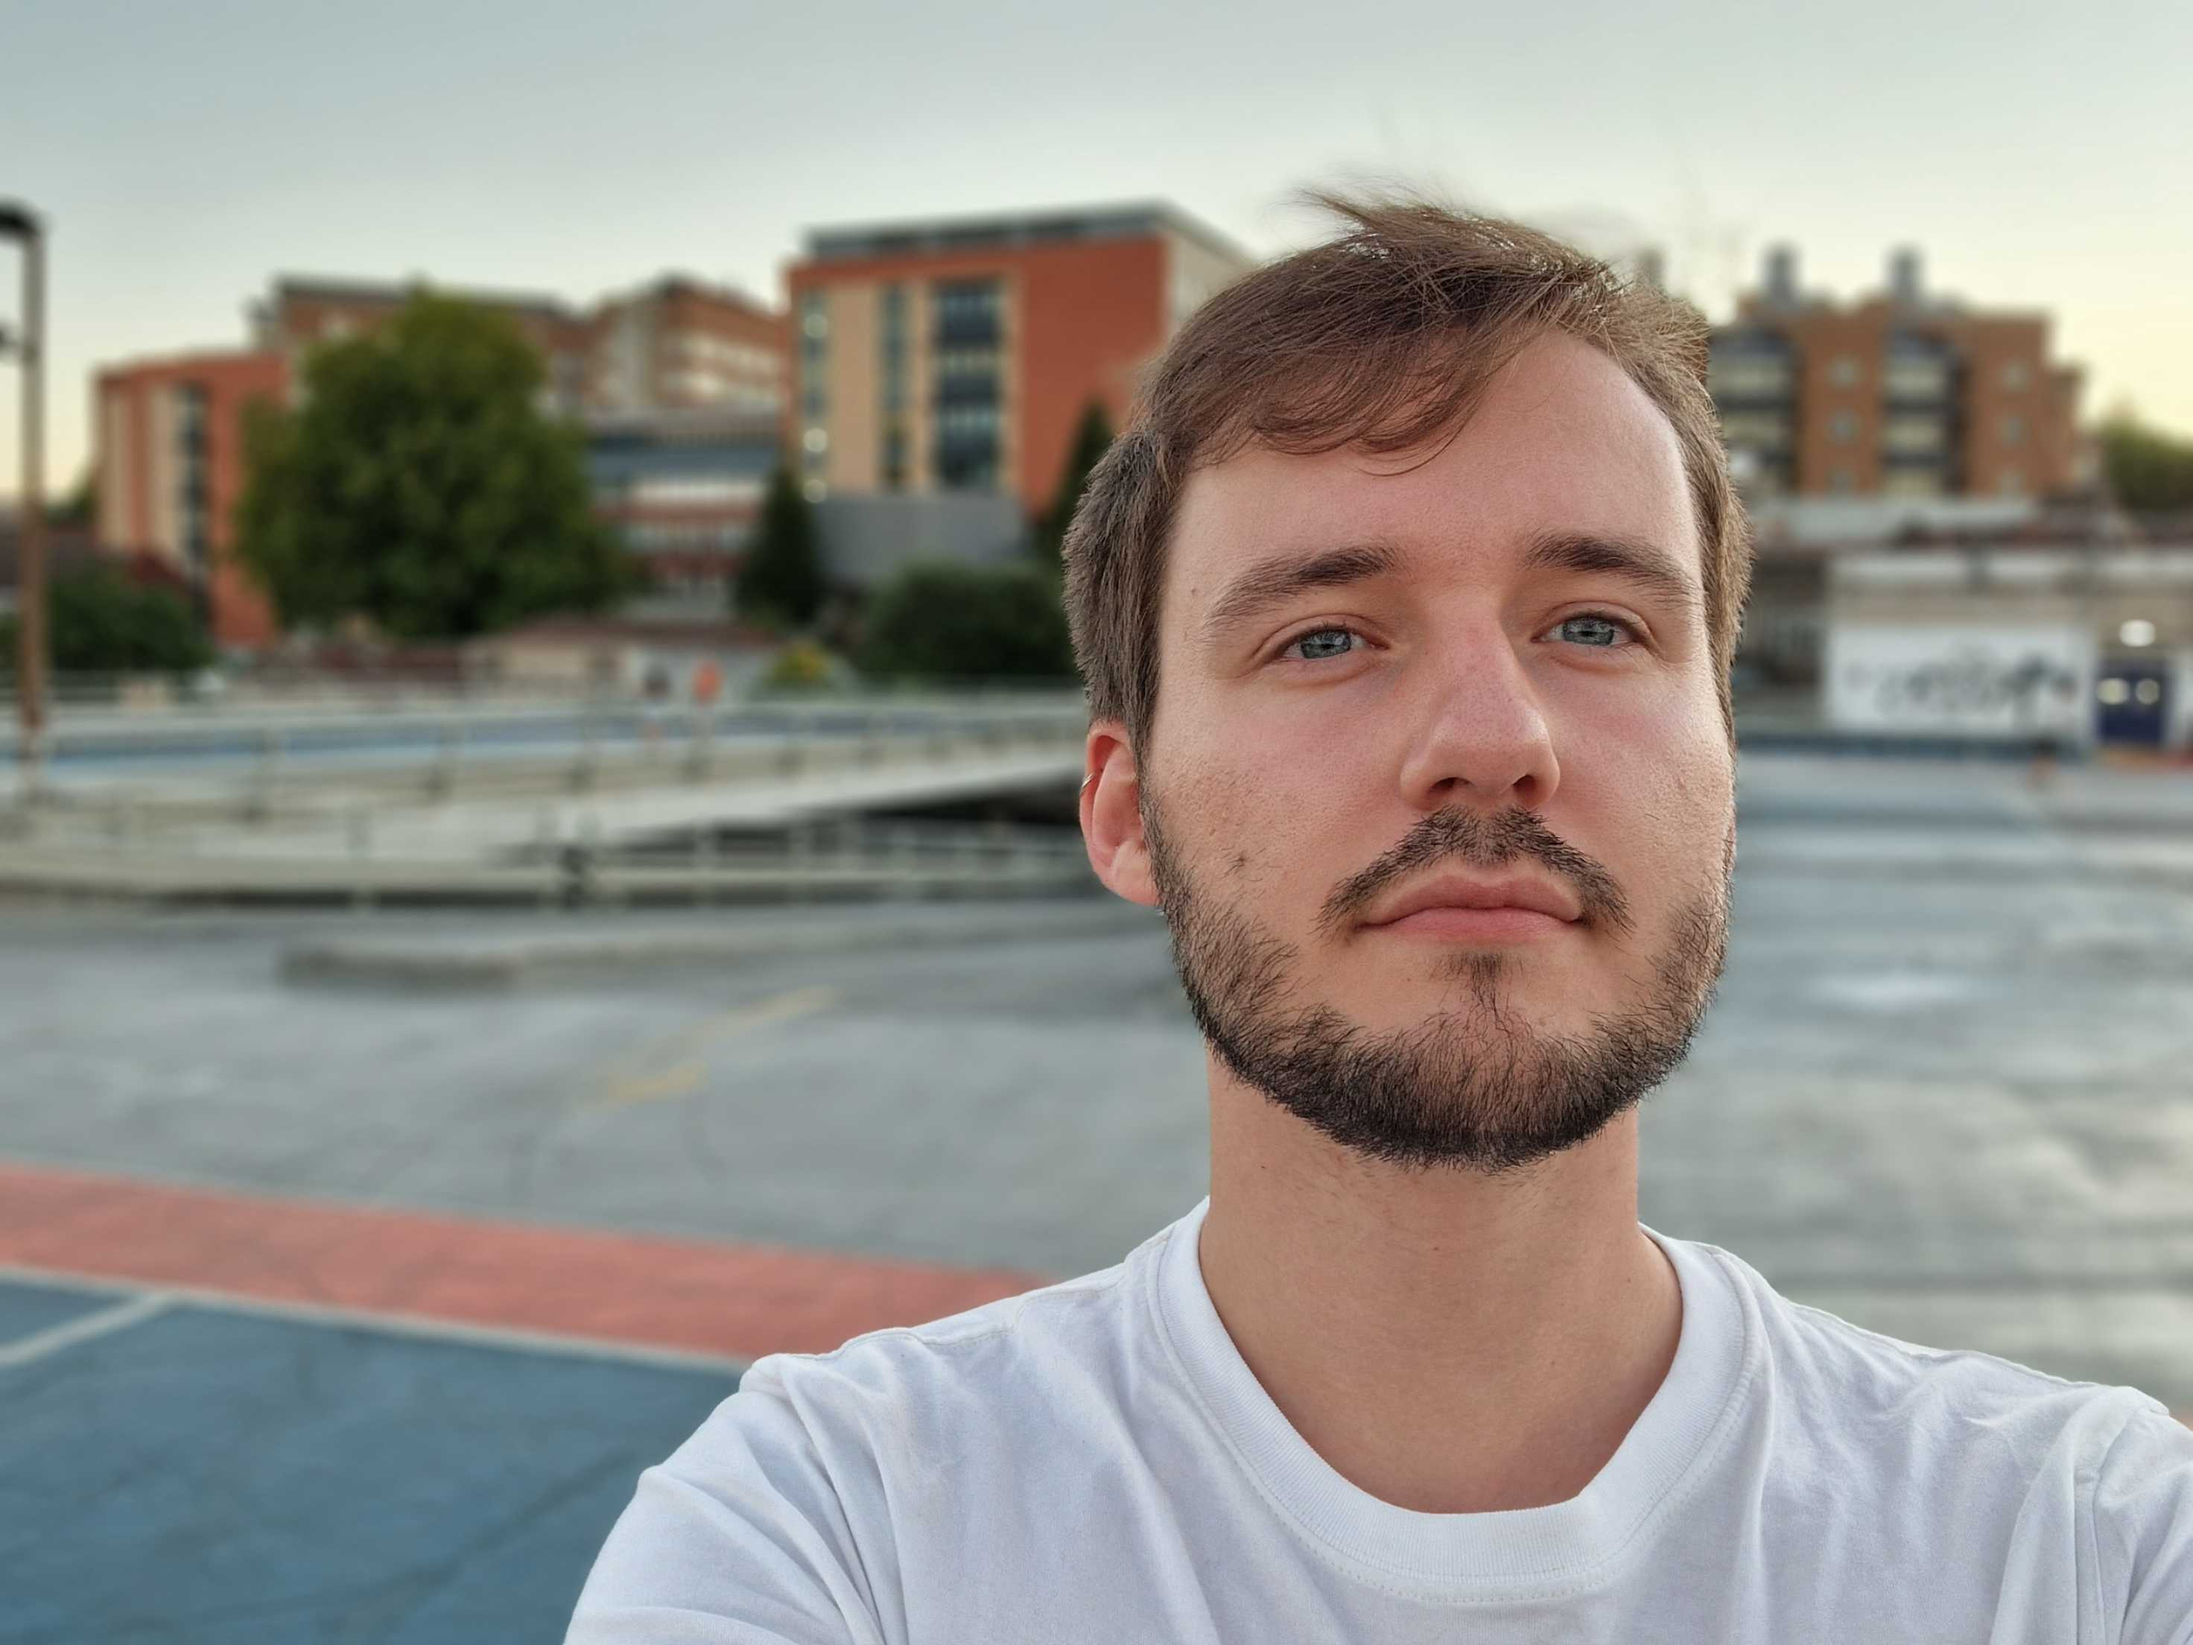
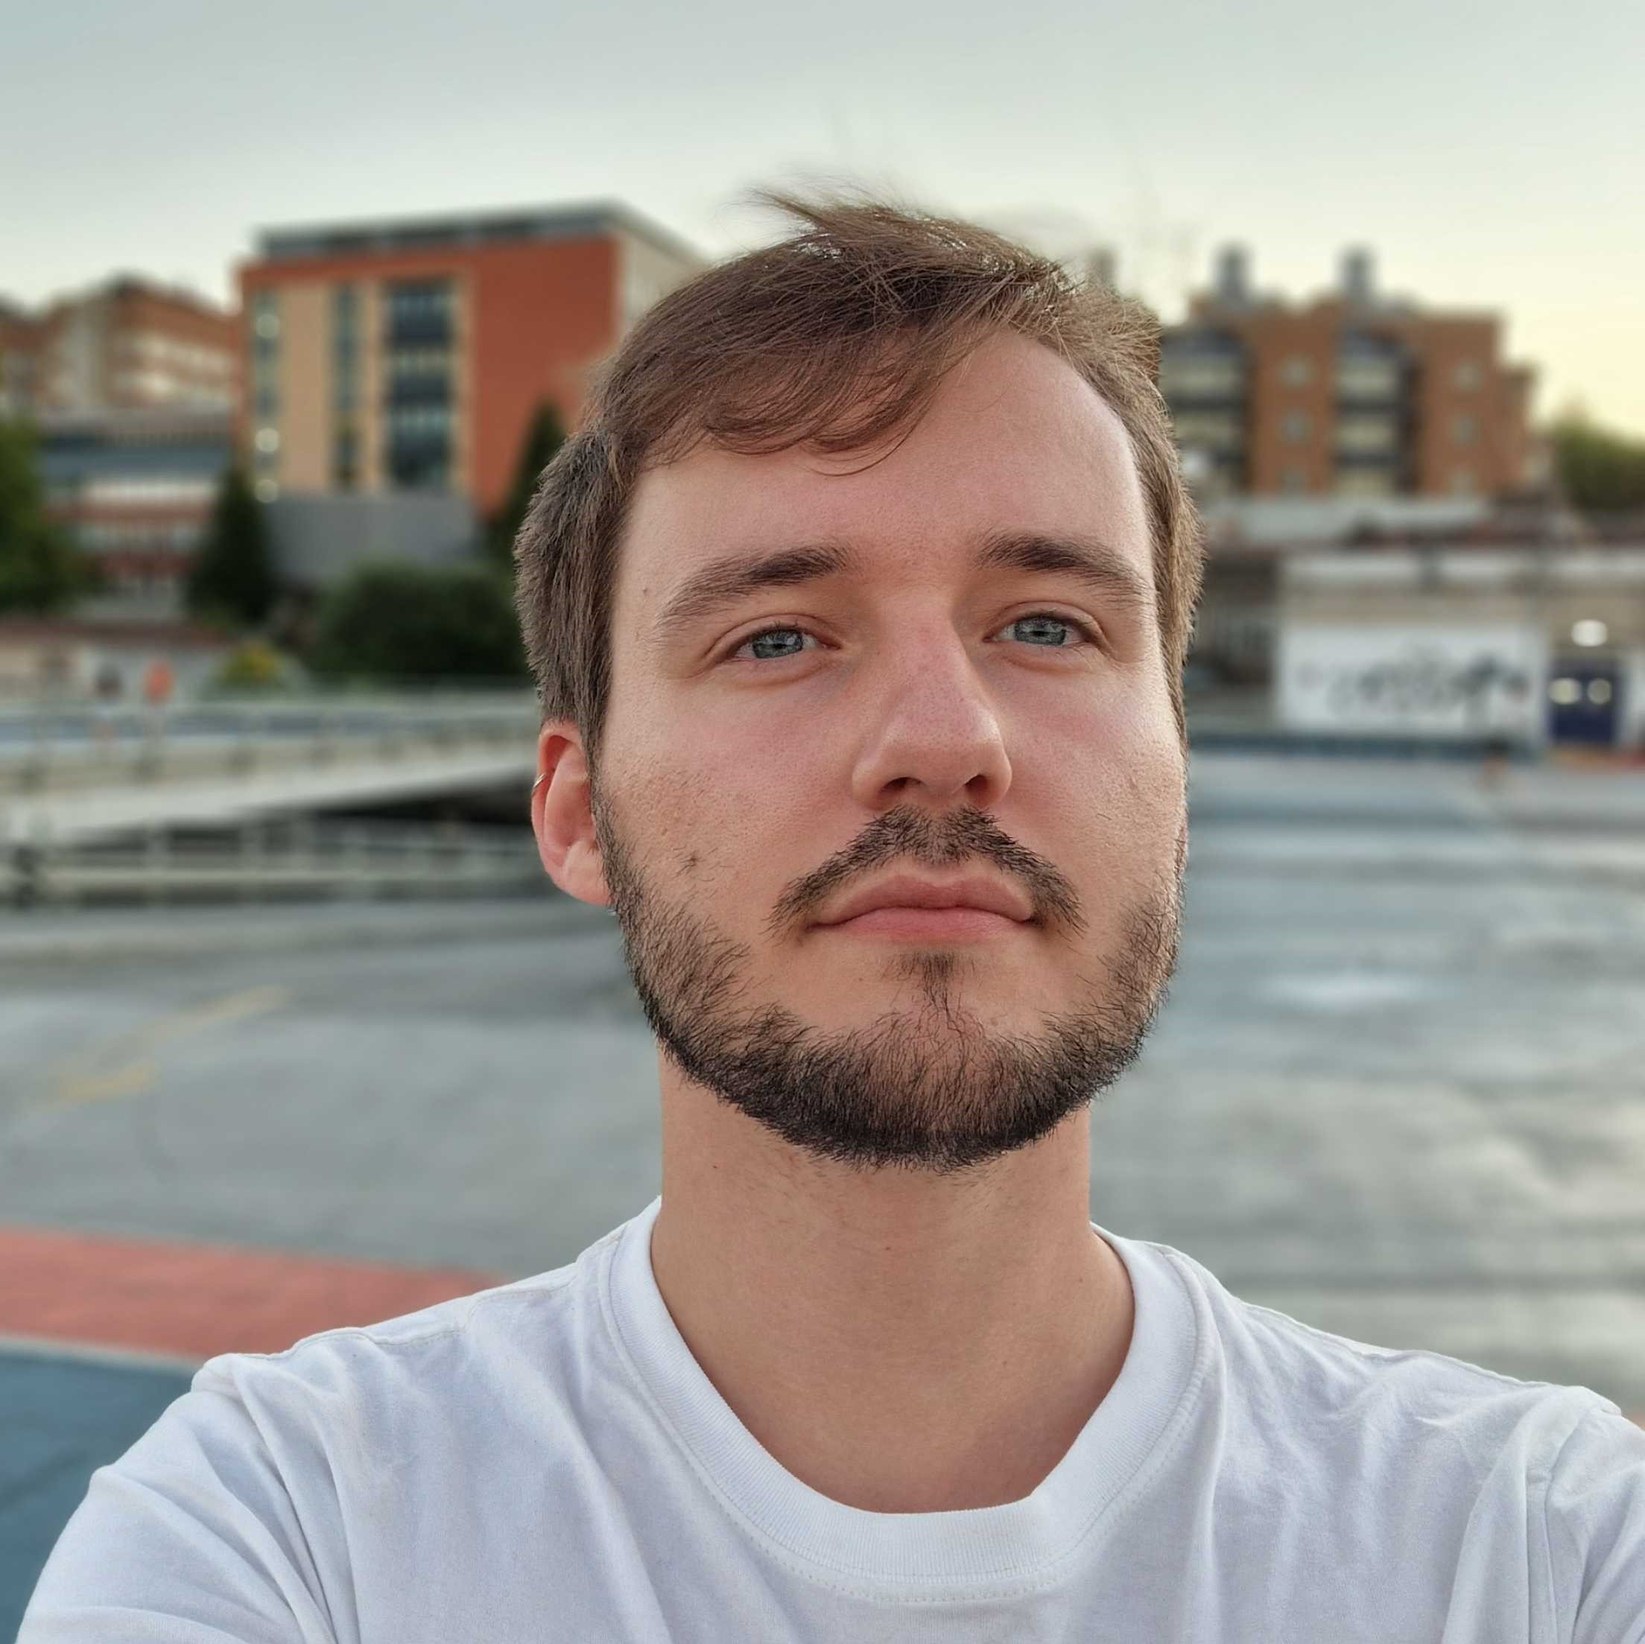
New post on skipping jest tests (#61)
* new post on jest skipping

* code format fix

* summary grammar fix

* fix ratio of picture

* change refs to inline links

* added gsingh, aberrill and osouthwell

* New post on Jest snapshot testing (#58)

* New post on Jest snapshot testing

* Jest snapshot testing post improvements

* Updated Enhancing Jest Snapshot Testing

* grammar fixes

* remove repeated author

* updating post date

---------

diff --git a/osouthwell/index.html b/osouthwell/index.html
@@ -3,4 +3,3 @@ title: Ollie Southwell
 author: osouthwell
 layout: default_author
 ---
-

diff --git a/_posts/2023-09-19-dynamically-skipping-tests-within-jest.md b/_posts/2023-09-19-dynamically-skipping-tests-within-jest.md
@@ -1,0 +1,108 @@
+---
+title: Dynamically Skipping Tests within Jest
+categories:
+  - Testing
+  - Tech
+tags:
+  - testing
+  - jest
+summary: In this blog post I will walk you through how to set up a Jest custom environment in order to dynamically skip tests after they have been queued.
+author: osouthwell
+---
+
+In this blog post I will walk you through how to set up a Jest custom environment in order to dynamically skip tests after they have been queued.
+
+In [Jest](https://jestjs.io/docs), while you can skip tests in code, there isn't a straightforward way to decide not to run tests once they are queued. This becomes problematic when you need to stop running tests based on dynamic properties. This is an issue specifically when running numerous tests calling APIs with unknown costs beforehand. I will address this problem by creating a custom environment and binding to a [Jest Circus](https://github.com/jestjs/jest/blob/main/packages/jest-circus) event.
+
+### Naive solution
+
+One Solution that could be implemented, is to add a check for the conditions we care about to the test itself. For example, if we care about budget we can add `expect(budget).toBeLessThan(currentCost)` to the start of each test. This works as Jest treats a fail as an exception so will not run the expensive api once a check has failed. The downside is that this causes all our tests to fail which could cause issues with some CI pipelines and obscure actual failures.
+
+It is worth noting that, the Mocha framework has a solution of out of the box [out of the box](https://mochajs.org/#inclusive-tests) but our focus here will be on Jest.
+
+### What is a custom environment?
+
+A Jest [custom environment](https://jestjs.io/docs/configuration#testenvironment-string) provides a flexible means to simulate different runtime environments for your tests. Essentially, an environment in Jest defines the context in which your code operates during testing. This context encompasses various factors, including the availability of specific APIs, global variables, and behaviours that are typically associated with browsers. By crafting custom environments, developers can replicate real-world scenarios more accurately, ensuring comprehensive testing under diverse conditions. The custom environment class may optionally expose an asynchronous `handleTestEvent()` method to bind to events fired by Jest Circus, which is Jest's default test runner.
+
+### Crafting a custom environment
+
+Creating a custom Jest environment is not overly complex. By default, Jest includes two environments: Node and [JSDom](https://github.com/jsdom/jsdom), with Node being the default choice. These environments are implemented as classes and can be extended and modified to suit your testing requirements. Within the constructor of your custom environment, you can define global variables or functions that will be available to your test suite. The custom environment is set up uniquely for each test suite, so there's no need to be concerned about variable conflicts.
+
+Within the constructor is where we can define our global variables. These variables are then available to our test suite. For now we will define a simple function `skipIf()` that accepts a function then adds it to a list of conditions to use later.
+
+~~~javascript
+const NodeEnvironment = require('jest-environment-node');
+
+const { TestEnvironment } = NodeEnvironment;
+
+class CustomEnvironment extends TestEnvironment {
+    constructor(config, context) {
+        super(config, context);
+
+        this.skipIfConditions = [];
+
+        this.global.skipIf = (condition) => this.skipIfConditions.push(condition);
+    }
+
+    //...
+}
+
+module.exports = CustomEnvironment;
+~~~
+
+Now that we've defined our global function, `skipIf()`, we can access it within our test suite and pass in conditional functions. This setup allows us to pass any number of functions, making it versatile for various scenarios. For instance, in this example we use `skipIf()` to skip tests once our budget has been exceeded. This example is very simple but could easily be adjusted to accept complex conditions, such as not running test if an API is offline, as well. Importantly, variables local to your test suite remain fully accessible and updated to your `skipIf()` function.
+
+~~~javascript
+let totalCost = 0;
+const testBudget = 2;
+const expensiveAPI = () => 1;
+
+skipIf(() => totalCost > testBudget);
+
+it(`Test No 1`, () => {
+    totalCost += expensiveAPI();
+});
+it(`Test No 2`, () => {
+    totalCost += expensiveAPI();
+});
+it(`Test No 3`, () => {
+    totalCost += expensiveAPI();
+});
+it(`Test No 4`, () => {
+    totalCost += expensiveAPI();
+});
+~~~
+
+Next, we'll bind to an event fired by Jest Circus. A list of available events can be found in Jest's  [type folder](https://github.com/jestjs/jest/blob/be7e797bd6d1ef3476f1d9a15fb50fd03527bd19/packages/jest-types/src/Circus.ts#L86C7-L86C7). The core idea is to evaluate whether any of the functions passed to our `skipIf()` function return true. If any condition is met, we change the test's mode to `skip`, and it will be skipped in the test runner. Again, this can easily be changed to skip on all conditions being true.
+
+~~~javascript
+class CustomEnvironment extends TestEnvironment {
+    //...
+
+    async handleTestEvent(event) {
+        if (event.name === 'test_start' && this.skipIfConditions.some((condition) => condition())) {
+            event.test.mode = 'skip';
+        }
+    }
+}
+~~~
+
+Lastly, we need to instruct Jest to use our custom environment. This is achieved by setting the `testEnvironment` property to the file path in the Jest config file. Once this step is completed, all that's left to do is pass in conditional functions into our global `skipIf()` function within our test suite. Our custom environment will then assess these conditions just before each test is run and run the test only if all conditions return true.
+
+~~~javascript
+module.exports = {
+    // Other Jest configuration options...
+
+    testEnvironment: './environment/CustomEnvironment.js'
+};
+~~~
+
+### Warning about mutating event data
+
+A disclaimer, this is specifically warned against in Jest Circus documentation. "Mutating event or state data is currently unsupported and may cause unexpected behavior or break in a future release without warning". For this reason, it is crucial to be careful whenever updating to a newer version of Jest. It's wise to thoroughly test and validate your custom environment setup to ensure it behaves as expected.
+
+While Jest is well documented from a user point of view, we are really off the beaten track when altering Jest packages and resources. Jest Circus provides the basics for event binding but it lacks examples of why you would want to or what is possible.
+
+### Conclusion
+
+In conclusion, Jest is a powerful and highly modular tool for JavaScript testing, and with creative solutions like custom environments, you can tailor it to meet your specific testing needs. We have shown, using a custom environment, how to dynamically skip tests within Jest . By dynamically skipping tests, you can prevent unnecessary runs of expensive or time-consuming tests, and you can also ensure that your tests are only run when the conditions are met.
